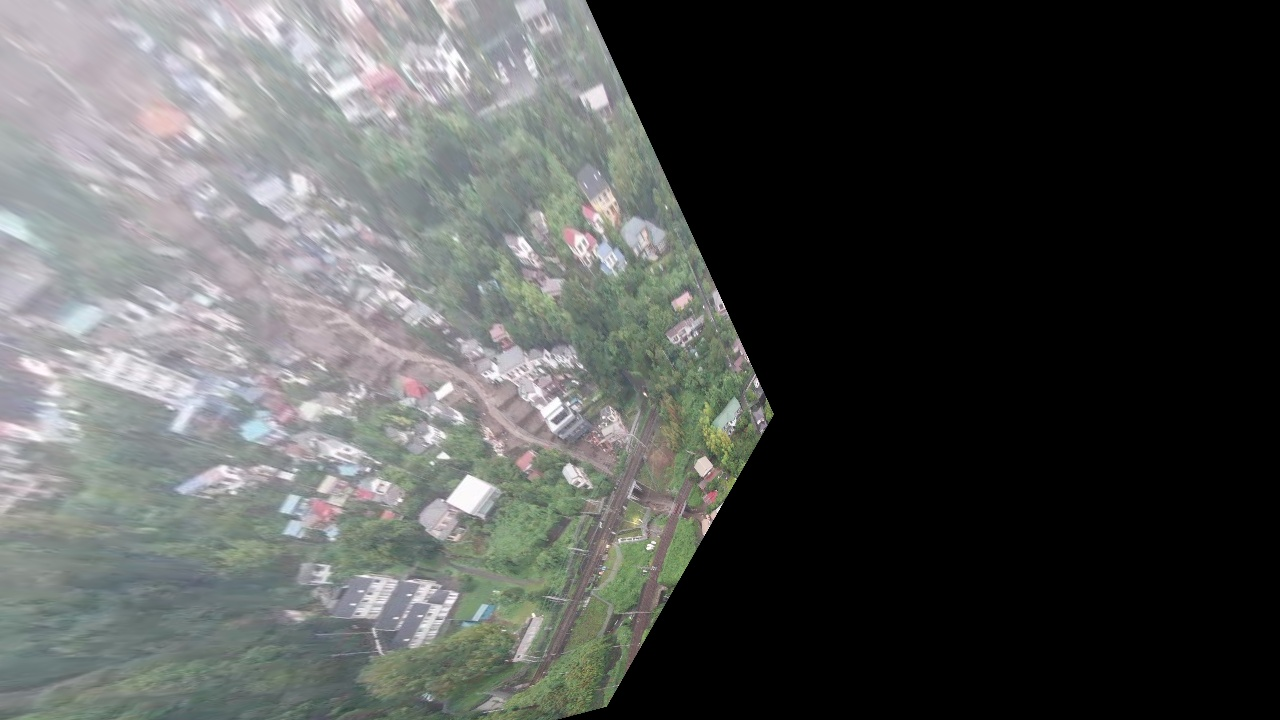
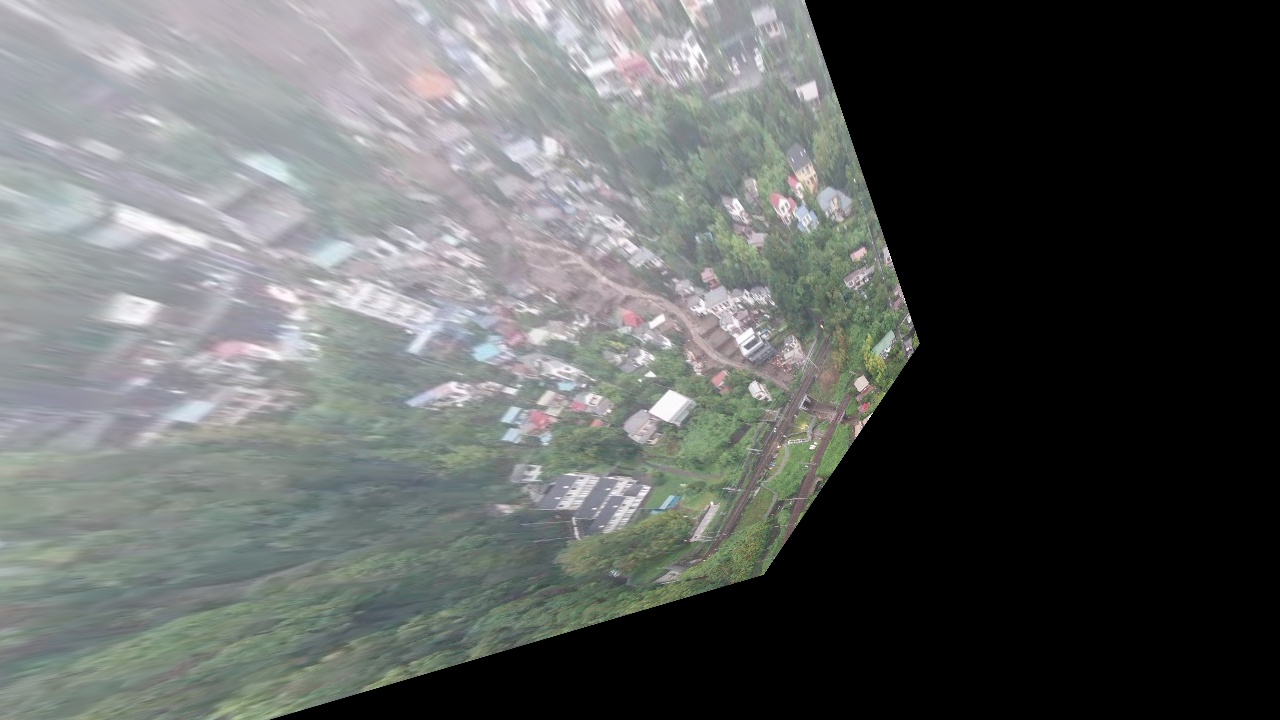
不要なファイルの削除と他のパターンでの位置合わせ結果

diff --git a/homography_registraion.py b/homography_registraion.py
@@ -1,19 +1,22 @@
+import sys
 import cv2
 import numpy as np
 from matplotlib import pyplot as plt
 from PIL import Image, ImageDraw
 
 def main():
-    mask()
-    gousei()
+    args = sys.argv #コマンドライン引数
+
+    mask(args[1])
+    gousei(args[2])
 
 # 射影変換
-def homography():
-    img_in = cv2.imread('20210704_02_0208.jpg') #鳥瞰視点画像
+def homography(img_in_name):
+    img_in = cv2.imread(img_in_name) #鳥瞰視点画像
 
     # 変換前後の対応点を設定
     p_original = np.float32([[739,600], [345,294], [779,132], [1114,202]]) #鳥瞰視点画像の4点
-    p_trans = np.float32([[677, 508], [347, 597], [163, 122], [522, 84]]) #直下視画像の4点
+    p_trans = np.float32([[837, 416], [553, 492], [431, 86], [750, 76]]) #直下視画像の4点
 
     # 変換マトリクスと射影変換
     M, mask = cv2.findHomography(p_original, p_trans, cv2.RANSAC) #0:すべてのポイントを使用する通常の方法、RANSAC：RANSACベースの堅牢な方法、LMEDS：最小中央値のロバストな方法
@@ -23,9 +26,9 @@ def homography():
     return img_trans
 
 # マスク画像作成
-def mask():
+def mask(img_homography_name):
     # グレースケール化
-    img_gray = cv2.cvtColor(homography(), cv2.COLOR_BGR2GRAY) #BGR2を指定
+    img_gray = cv2.cvtColor(homography(img_homography_name), cv2.COLOR_BGR2GRAY) #BGR2を指定
     cv2.imwrite("result_gray.jpg", img_gray)
 
     ret2, img_binary = cv2.threshold(img_gray, 0, 255, cv2.THRESH_OTSU) #大津の二値化
@@ -42,10 +45,8 @@ def mask():
     img_erosion = cv2.erode(img_delation, kernel, iterations=10)
     cv2.imwrite("result_mask.jpg", img_erosion)
 
-    return img_erosion
-
-def gousei():
-    img_background = Image.open('Wiki.jpg')
+def gousei(img_background_name):
+    img_background = Image.open(img_background_name)
     img_registration = Image.open('result_homography.jpg')
     img_copy = img_background.copy()
 

diff --git a/coordinate.py b/coordinate.py
@@ -44,7 +44,7 @@ class mouseParam:
 
 if __name__ == "__main__":
     #入力画像
-    read = cv2.imread(f"20210706_saigaigo_joku_02.jpg")
+    read = cv2.imread(f"20170809_joku.jpg")
     
     #表示するWindow名
     window_name = "input window"
